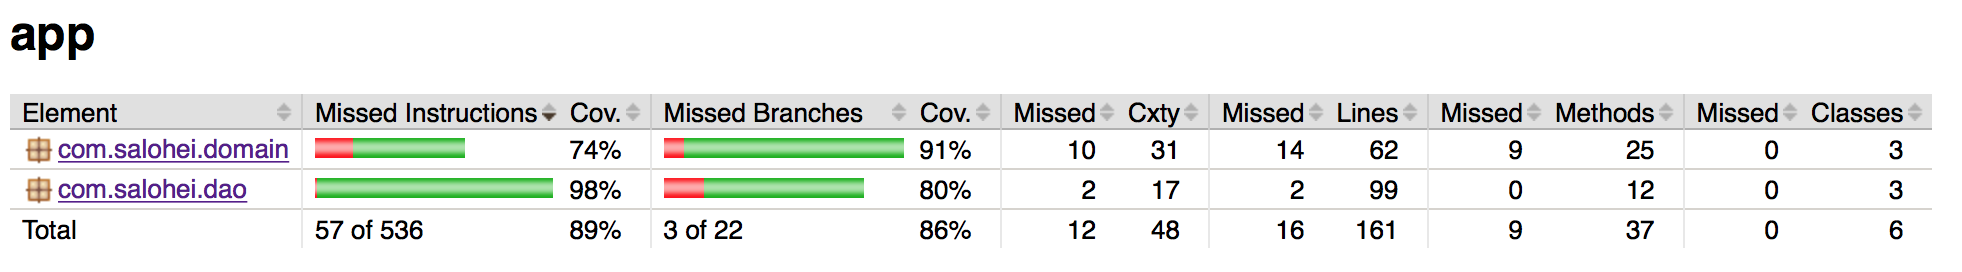
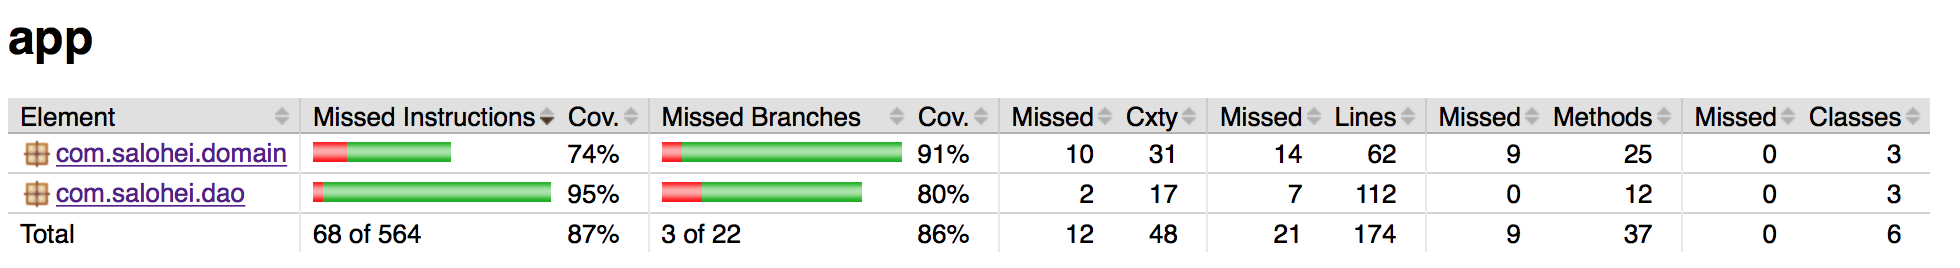
testauskattavuus

Changed region(s): [[0.0, 0.3284, 0.9959, 0.9254], [0.0, 0.0896, 0.0622, 0.2388], [0.9026, 0.8657, 0.9337, 0.8955]]

diff --git a/dokumentaatio/testaus.md b/dokumentaatio/testaus.md
@@ -16,7 +16,7 @@ Molemmat DAO-luokat on testattu luomalla keskusmuistiin tallennettava testitieto
 
 ### Testauskattavuus
 
-Sovelluksen testauksen rivikattavuus on 89% ja haaraumakattavuus 86%. Käyttöliittymää ei sisällytetty testeihin eikä näihin lukuihin.
+Sovelluksen testauksen rivikattavuus on 87% ja haaraumakattavuus 86%. Käyttöliittymää ei sisällytetty testeihin eikä näihin lukuihin.
 
 ![Testauskattavuus](https://raw.githubusercontent.com/tsalohei/bike-tracker/master/dokumentaatio/kuvat/testauskattavuus.png "Testauskattavuus")
 
